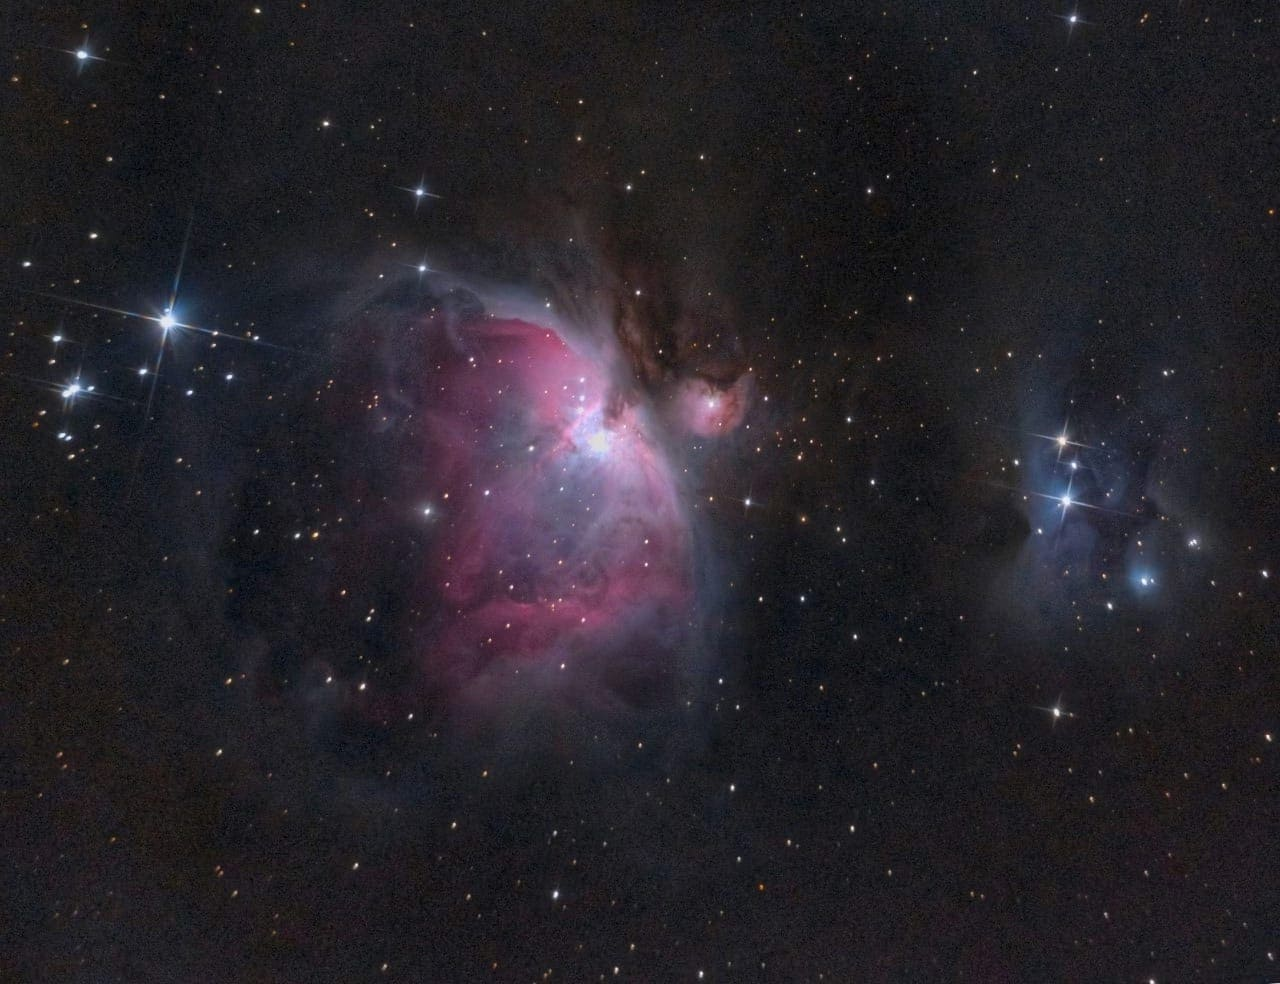
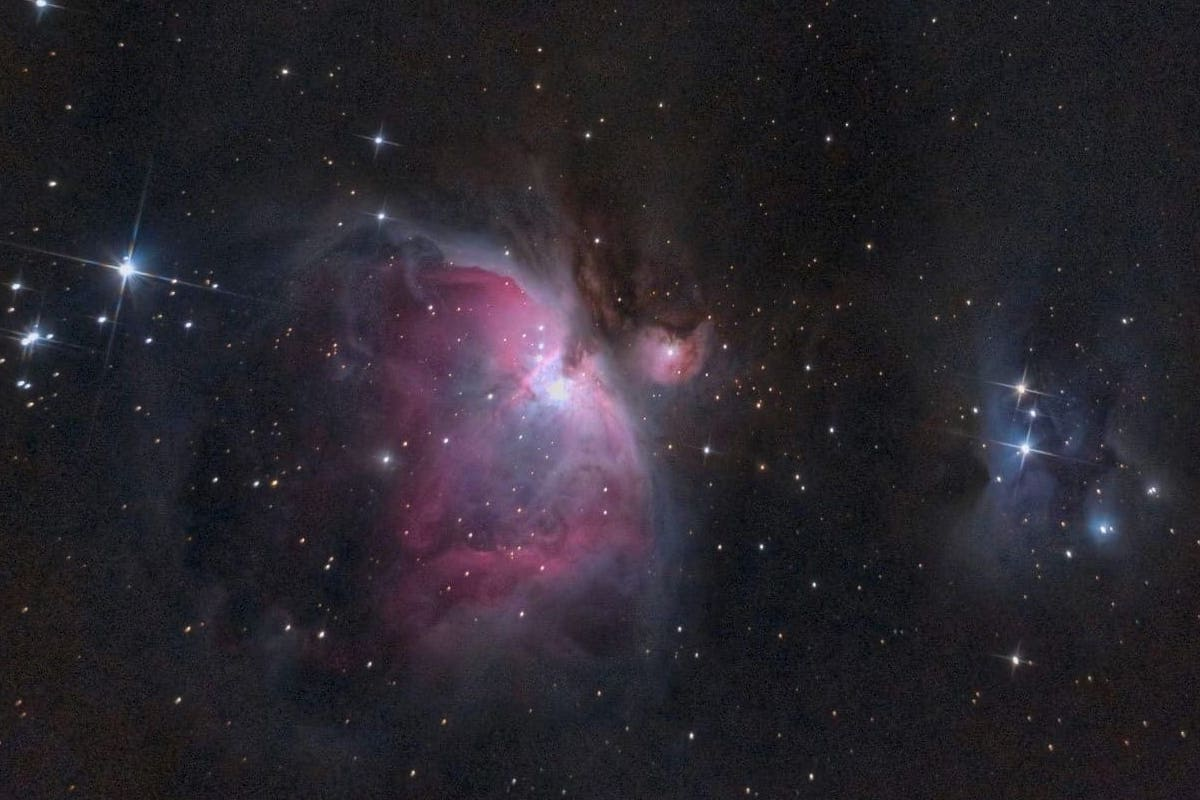
Fix the weird scaling if carousel

diff --git a/src/carousel.tsx b/src/carousel.tsx
@@ -51,12 +51,12 @@ export default function HomeCarousel(){
     <Carousel slide={false} controls={true} prevLabel="" nextLabel="" indicators={false}>
       {data.map((dataVal, key)=>{return (
       <Carousel.Item key={key}>
-        <Image
+        <img
           className="d-block w-100 carousel-img"
           src={`${dataVal.img}`}
           alt={`${dataVal.alt}`}
           width={size.width}
-          height={size.height-66}
+          height={1/2*size.width}
           // placeholder="blur"
         />
 

diff --git a/styles/common.css b/styles/common.css
@@ -93,7 +93,7 @@ nav a:hover {
   background-color: #111 !important;
 }
 .carousel-img{
-  height: 92vh;
+  /* height: 92vh; */
   width: 100%;
   background-size: cover;
   background-position: center;
